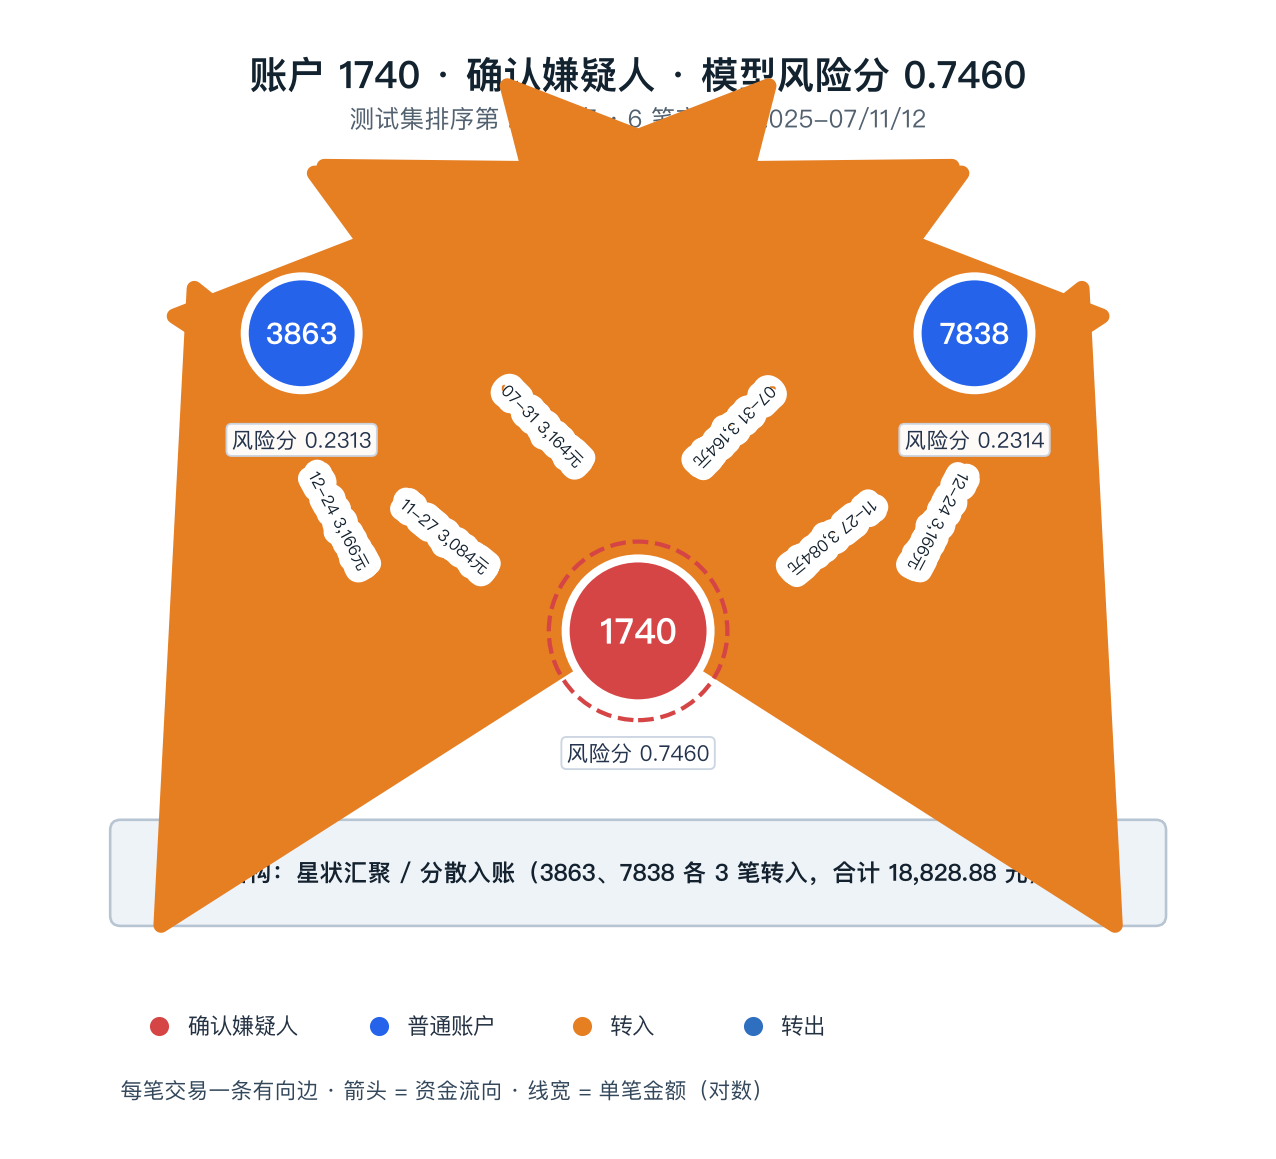
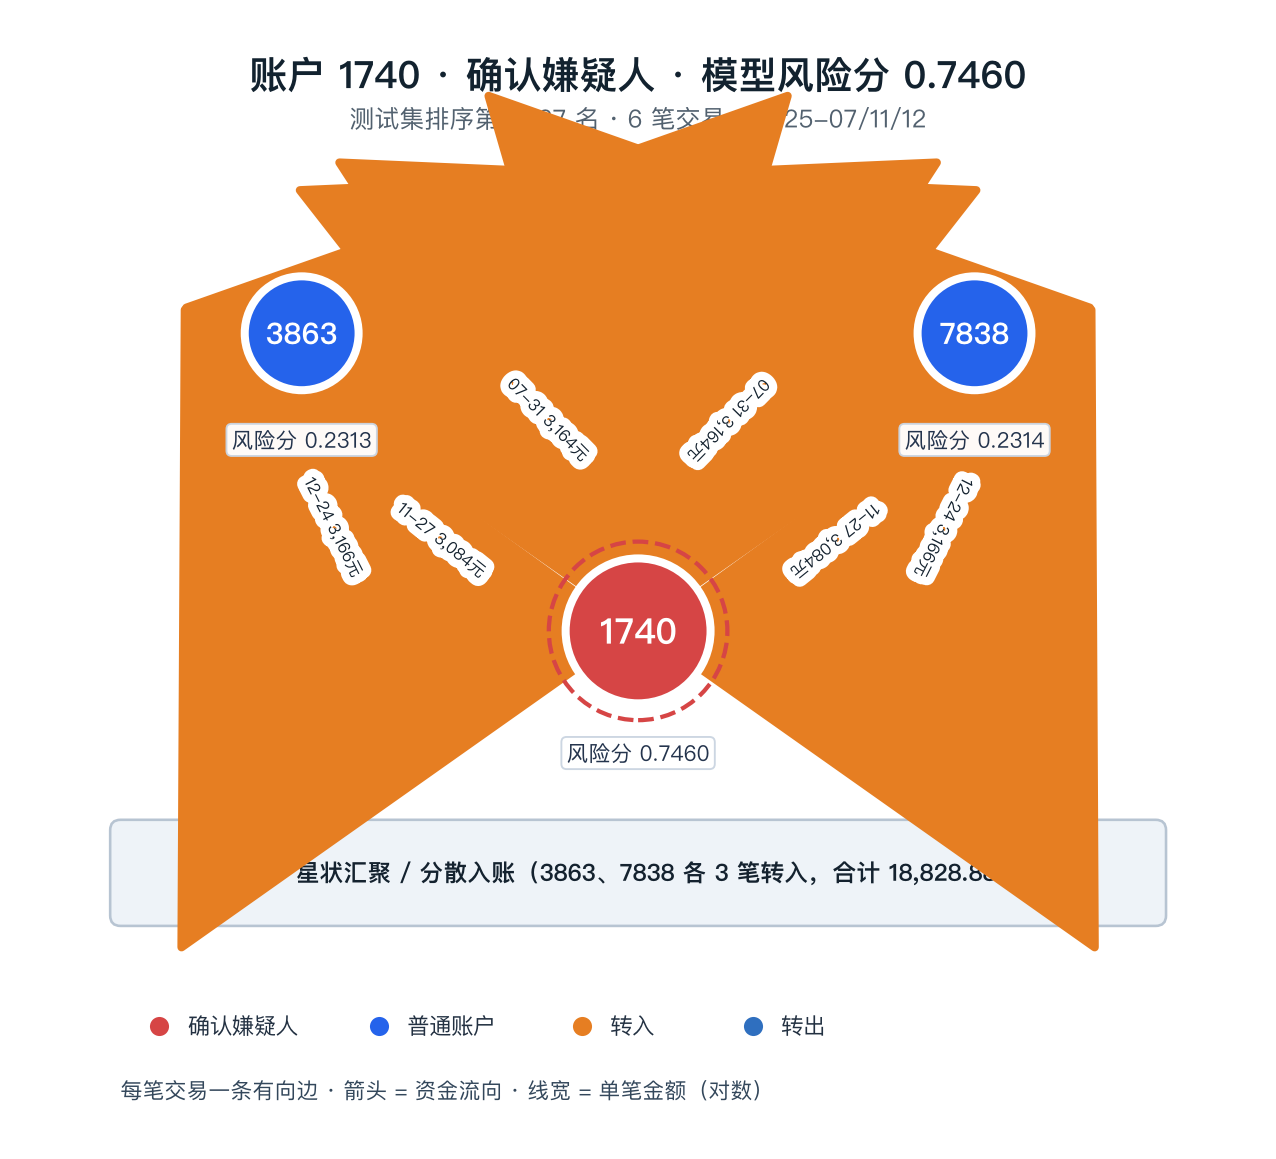
附录D图谱边线改细并拉开弧度

diff --git a/src/27_render_appendix_d_graphs.py b/src/27_render_appendix_d_graphs.py
@@ -26,9 +26,9 @@ IN_COLOR = "#e67e22"
 OUT_COLOR = "#2f6fbf"
 RAD_SETS = {
     1: [0.0],
-    2: [0.42, -0.48],
-    3: [0.40, -0.26, -0.58],
-    4: [0.28, -0.34, 0.62, -0.72],
+    2: [0.46, -0.52],
+    3: [0.44, -0.28, -0.62],
+    4: [0.32, -0.38, 0.68, -0.78],
 }
 
 
@@ -108,7 +108,7 @@ def draw_edges(ax, fig, pos, edges: list[dict], root: int, label_fn, fontsize: f
         rad = RAD_SETS[pair_count[pair]][idx] * (1.0 if p2[0] >= p1[0] else -1.0)
         incoming = v == root
         color = IN_COLOR if incoming else OUT_COLOR
-        width = 2.0 + 4.5 * math.log1p(e["amount"]) / max_log
+        width = 1.0 + 2.5 * math.log1p(e["amount"]) / max_log
         ru = 0.66 if u == root else 0.54
         rv = 0.66 if v == root else 0.54
         arrow = FancyArrowPatch(p1, p2, connectionstyle=f"arc3,rad={rad}",
